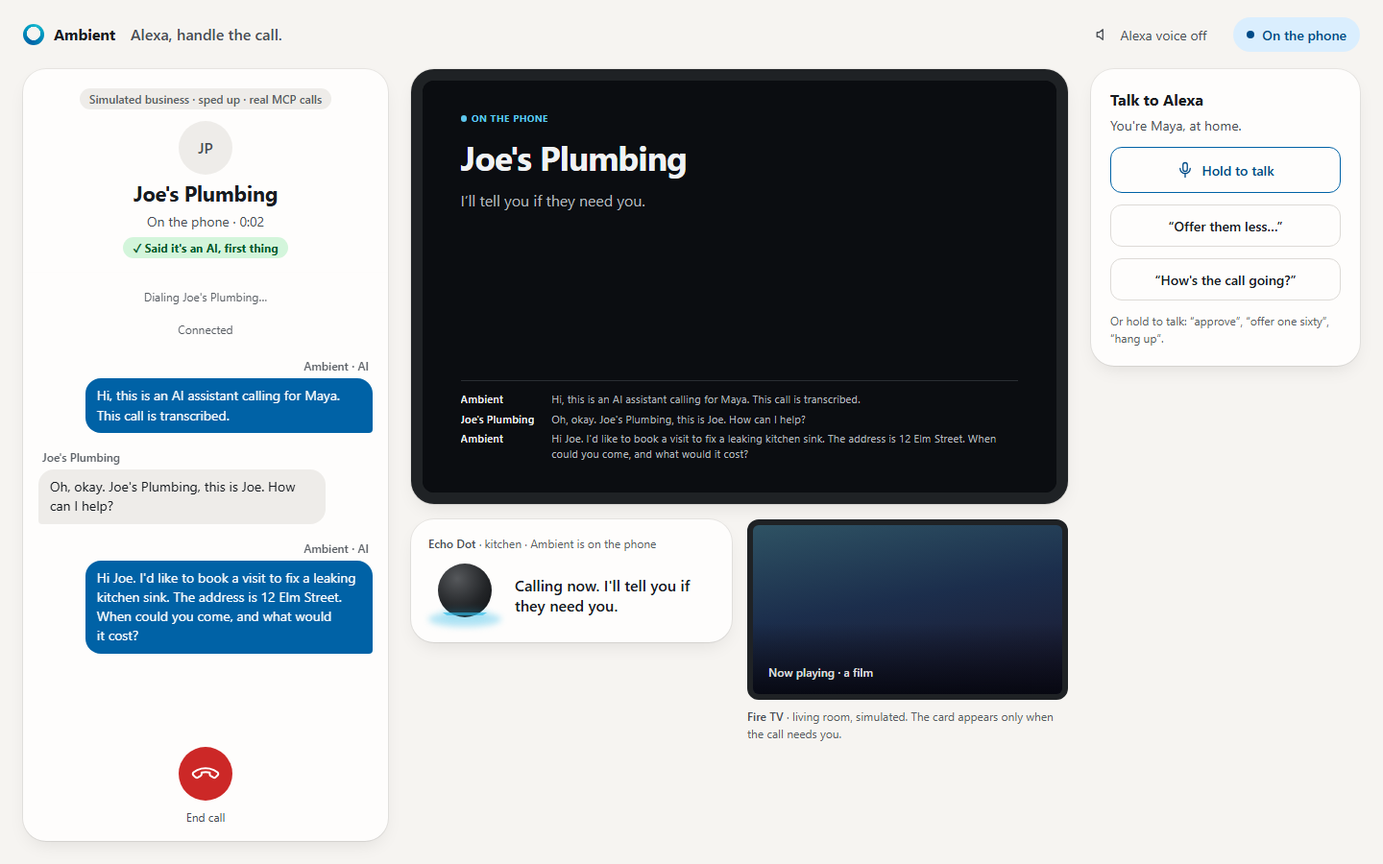
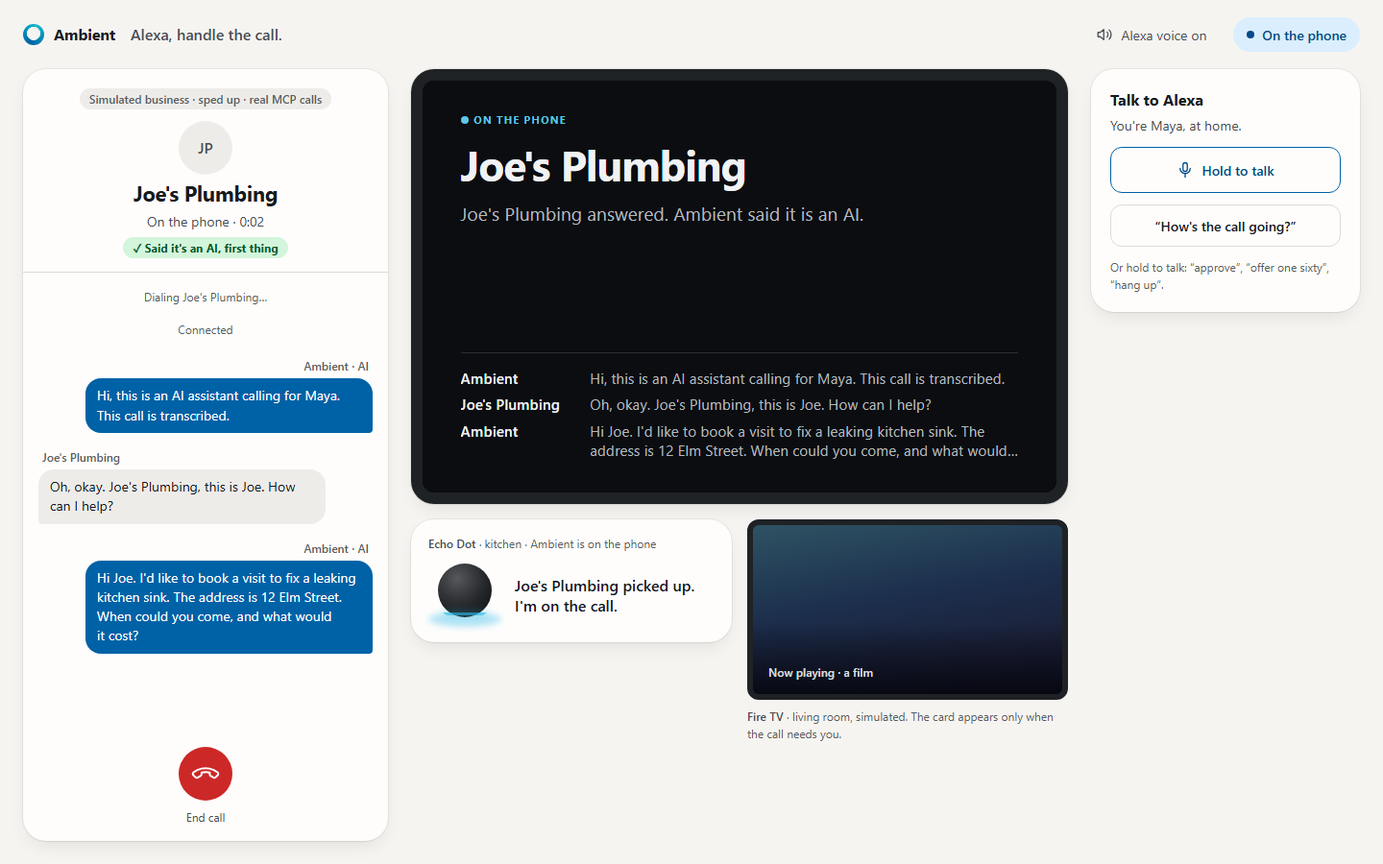
Make the needs-you card a complete decision
The third blind critique still found the decision split: the card could
approve or decline, but offering less lived in the side panel, and the
card never said what the limit was. Now:

- Approvals carry the owner's limit (limitUsd through the reducer,
  engine, store, and task card), so the card reads "Needs you · $30 over
  your $150 limit" above "$180 · Joe's Plumbing".
- Approve, Offer $160, Offer $170, and Decline sit together on the
  device card; the offers steer the live call through tools/call.
  "Decline ends the call. Nothing is booked." states the consequence.
- One sentence for a hang-up everywhere: "You ended the call before
  Joe's Plumbing confirmed. Nothing was booked."
- While connected the card says the business answered and Ambient said
  it is an AI; the Echo Dot says it picked up. A chime plays on confirm.
- The business's page names the owner before it is answered (/info).
- Larger device type; the TV chip truncates instead of wrapping.

diff --git a/src/task-view.ts b/src/task-view.ts
@@ -22,26 +22,27 @@ export const TASK_HTML = `<!doctype html>
  --go:oklch(0.52 0.13 152);--btn:oklch(0.26 0.01 255)}
 *{box-sizing:border-box;margin:0}
 html,body{height:100%}
-body{background:var(--bg);color:var(--fg);font:400 clamp(12px,2.4vw,28px)/1.35 -apple-system,"SF Pro Text",system-ui,sans-serif;
+body{background:var(--bg);color:var(--fg);font:400 clamp(12px,2.9vw,32px)/1.35 -apple-system,"SF Pro Text",system-ui,sans-serif;
  -webkit-font-smoothing:antialiased;padding:5vw 6vw;display:flex;flex-direction:column;gap:2.4vw;overflow:hidden}
 button{font:inherit;color:inherit;cursor:pointer;border:0}
 button:focus-visible{outline:2px solid var(--call);outline-offset:3px}
 .chip{display:inline-flex;align-items:center;gap:.5em;font-size:.6em;font-weight:650;letter-spacing:.08em;text-transform:uppercase;color:var(--call)}
 .chip::before{content:"";width:.7em;height:.7em;border-radius:50%;background:currentColor}
 .chip.needs{color:var(--needs)}.chip.done{color:var(--done)}.chip.warn{color:var(--warn)}.chip.idle{color:var(--dim)}
-.stake{font-size:2.2em;font-weight:650;letter-spacing:-.02em;line-height:1.05;font-variant-numeric:tabular-nums;text-wrap:balance}
+.stake{font-size:2.3em;font-weight:650;letter-spacing:-.02em;line-height:1.05;font-variant-numeric:tabular-nums;text-wrap:balance}
 .sub{font-size:1em;color:var(--dim);text-wrap:pretty;max-width:32em}
 .actions{display:flex;gap:.6em;flex-wrap:wrap;margin-top:.4em}
 .actions:empty{display:none}
-.actions button{min-height:2.4em;padding:0 1.2em;border-radius:.6em;background:var(--btn);font-weight:600;font-size:.9em}
-.actions button.primary{background:var(--go);color:#fff;font-size:1em;padding:0 1.6em}
+.actions button{min-height:2.4em;padding:0 .95em;border-radius:.6em;background:var(--btn);font-weight:600;font-size:.9em}
+.actions button.primary{background:var(--go);color:#fff;font-size:1em;padding:0 1.5em}
+.actions button.offer{background:transparent;box-shadow:inset 0 0 0 1px var(--faint)}
 .actions button.call{background:var(--fg);color:var(--bg)}
 .actions button:active{transform:scale(.97)}
 .hint{font-size:.78em;color:var(--dim)}
 .hint:empty{display:none}
 .lines[hidden]{display:none}
-.lines{margin-top:auto;display:flex;flex-direction:column;gap:.45em;font-size:.72em;border-top:1px solid var(--faint);padding-top:1em}
-.line{display:grid;grid-template-columns:7.5em 1fr;gap:.8em;color:var(--dim)}
+.lines{margin-top:auto;display:flex;flex-direction:column;gap:.45em;font-size:.8em;border-top:1px solid var(--faint);padding-top:1em}
+.line{display:grid;grid-template-columns:8em 1fr;gap:.8em;color:var(--dim)}
 .line b{font-weight:600;color:var(--fg);white-space:nowrap;overflow:hidden;text-overflow:ellipsis}
 .line span{display:-webkit-box;-webkit-line-clamp:2;-webkit-box-orient:vertical;overflow:hidden}
 .lines.how{margin-top:.6em;border-top:0;padding-top:0;font-size:.9em;gap:.6em}
@@ -49,7 +50,8 @@ button:focus-visible{outline:2px solid var(--call);outline-offset:3px}
 .lines.how b{color:var(--call)}
 body[data-device="tv"]{font-size:clamp(12px,5.2vw,40px);padding:0 6vw;gap:1.4vw;justify-content:center}
 body[data-device="tv"] .lines,body[data-device="tv"] .sub,body[data-device="tv"] .hint,body[data-device="tv"] .actions{display:none}
-body[data-device="tv"] .stake{font-size:1.15em;white-space:nowrap;overflow:hidden;text-overflow:ellipsis}
+body[data-device="tv"] .chip{max-width:100%;white-space:nowrap;overflow:hidden;text-overflow:ellipsis;display:block}
+body[data-device="tv"] .stake{font-size:1.15em;line-height:1.3;padding-bottom:.1em;white-space:nowrap;overflow:hidden;text-overflow:ellipsis}
 </style></head><body>
 <span class="chip idle" id="chip">Ready</span>
 <div class="stake" id="stake"></div>
@@ -73,6 +75,8 @@ const HOW=["Ambient phones the business and says it is an AI, first thing.","Ove
 function business(steps){for(const s of steps){const m=/^(?:Calling|Connected to) (.+)$/.exec(s);if(m)return m[1];}return "";}
 function speakers(steps){return steps.map(s=>/^([^:]{1,40}): (.+)$/.exec(s)).filter(Boolean).map(m=>({who:m[1],text:m[2]}));}
 function act(name,args){return rpc("tools/call",{name,arguments:args}).catch(()=>undefined);}
+function offers(ap){const limit=ap.limitUsd,amount=ap.amountUsd;if(limit===undefined||amount===undefined)return [];
+ const out=[];for(let v=limit+10;v<amount&&out.length<2;v+=10)out.push(v);return out;}
 function buttons(list){const box=$("actions");box.innerHTML="";
  for(const b of list){const el=document.createElement("button");el.type="button";el.textContent=b.label;if(b.kind)el.className=b.kind;el.onclick=()=>{el.disabled=true;b.run();};box.appendChild(el);}}
 function render(d){
@@ -83,25 +87,29 @@ function render(d){
  box.className="lines";hint.textContent="";buttons([]);
  if(ap){chip.className="chip needs";chip.textContent="Needs you";
   stake.textContent=(ap.amountUsd!==undefined?usd(ap.amountUsd)+" \\u00b7 ":"")+biz;
-  sub.textContent=ap.kind==="dial"?"Place this call?":"Over your limit. They are on hold.";
-  buttons([{label:ap.amountUsd!==undefined?"Approve "+usd(ap.amountUsd):"Approve",kind:"primary",run:()=>act("approve",{decision:"once"})},{label:"Decline",run:()=>act("approve",{decision:"deny"})}]);
-  hint.textContent="Or say \\u201cAlexa, tell Ambient offer one sixty.\\u201d";}
+  if(ap.amountUsd!==undefined&&ap.limitUsd!==undefined)chip.textContent="Needs you \\u00b7 "+usd(ap.amountUsd-ap.limitUsd)+" over your "+usd(ap.limitUsd)+" limit";
+  sub.textContent=ap.kind==="dial"?"Place this call?":biz+" is on hold.";
+  buttons([{label:"Approve",kind:"primary",run:()=>act("approve",{decision:"once"})},
+   ...offers(ap).map(v=>({label:"Offer "+usd(v),kind:"offer",run:()=>act("delegate",{task:"offer "+v})})),
+   {label:"Decline",run:()=>act("approve",{decision:"deny"})}]);
+  hint.textContent=ap.kind==="dial"?"":"Decline ends the call. Nothing is booked.";}
  else if(o){const ok=o.kind==="confirmed";chip.className="chip "+(ok?"done":"warn");
   chip.textContent=ok?"Confirmed by "+biz:o.kind==="unconfirmed"?"Not confirmed":o.kind==="declined"?"Declined":"No deal";
   stake.textContent=ok?((o.amountUsd!==undefined?usd(o.amountUsd)+" \\u00b7 ":"")+cap(o.when||biz)):biz;
   const theirs=said.filter(l=>l.who===biz).at(-1);
-  sub.textContent=ok?(theirs?"In their words: “"+theirs.text+"”":"Booked with "+biz+"."):t.status==="cancelled"?"You ended the call. Nothing was booked.":"Nothing was booked.";
+  sub.textContent=ok?(theirs?"In their words: “"+theirs.text+"”":"Booked with "+biz+"."):t.status==="cancelled"?"You ended the call before "+biz+" confirmed. Nothing was booked.":"Nothing was booked.";
   buttons([{label:"Call again",run:()=>act("delegate",{task:DEMO,newConversation:true})}]);}
  else if(live){chip.className="chip";chip.textContent=steps.some(s=>s.startsWith("Connected to"))?"On the phone":"Calling";
   stake.textContent=biz;
   const decided=owner&&/^\\S+ (approved|declined): /.exec(owner.text);
-  sub.textContent=decided?"You "+decided[1]+" it.":owner?"You told them: \\u201c"+cap(owner.text)+"\\u201d":"I\\u2019ll tell you if they need you.";}
+  const connected=steps.some(s=>s.startsWith("Connected to"));
+  sub.textContent=decided?"You "+decided[1]+" it.":owner?"You told them: \\u201c"+cap(owner.text)+"\\u201d":connected?biz+" answered. Ambient said it is an AI.":"Ringing\\u2026";}
  else{chip.className="chip idle";chip.textContent="Ready";stake.textContent="Alexa, handle the call.";
   sub.textContent="Say \\u201cAlexa, tell Ambient to call Joe\\u2019s Plumbing,\\u201d or tap below.";
   buttons([{label:"Call Joe\\u2019s Plumbing",kind:"call",run:()=>act("delegate",{task:DEMO,newConversation:true})}]);
   box.hidden=false;box.className="lines how";box.innerHTML=HOW.map((x,i)=>'<div class="line"><b>'+(i+1)+'</b><span>'+x+'</span></div>').join("");return;}
  const lines=said.slice(-3);
- box.hidden=lines.length===0||!!o;
+ box.hidden=lines.length===0||!!o||!!ap;
  box.innerHTML=lines.map(l=>'<div class="line"><b>'+esc(l.who)+'</b><span>'+esc(cap(l.text))+'</span></div>').join("");}
 render({});
 boot();

diff --git a/web/sim/index.html b/web/sim/index.html
@@ -90,7 +90,8 @@ body[data-phase="needs"] .call{filter:saturate(.3)}
 .proof{display:none;font-size:12px;font-weight:650;color:var(--go-text);background:var(--go-soft);padding:2px 10px;border-radius:999px}
 .proof.show{display:inline-block}
 .transcript{flex:1;overflow-y:auto;padding:12px 16px 24px;display:flex;flex-direction:column;gap:8px;border-top:1px solid var(--line);
-  mask-image:linear-gradient(180deg,transparent 0,#000 16px)}
+}
+.transcript.scrolled{mask-image:linear-gradient(180deg,transparent 0,#000 16px)}
 .bubble{max-width:86%;padding:8px 12px;border-radius:16px;font-size:14px;line-height:1.45;text-wrap:pretty}
 .bubble.business{align-self:flex-start;background:var(--sunk);border-bottom-left-radius:4px}
 .bubble.agent{align-self:flex-end;background:var(--call);color:var(--call-ink);border-bottom-right-radius:4px}
@@ -157,10 +158,6 @@ body[data-phase="needs"] .screen .title{opacity:0}
 @media (hover:hover){.ghost:hover{background:var(--sunk)}}
 .liveonly{display:none}
 body[data-phase="live"] .liveonly,body[data-phase="needs"] .liveonly{display:block}
-.offer{display:none;gap:8px}
-.offer.show{display:flex}
-.offer input{flex:1;min-width:0;min-height:44px;border-radius:var(--r-ctl);border:1px solid var(--line);background:var(--sunk);color:var(--ink);padding:0 12px;font:inherit;font-size:16px;font-variant-numeric:tabular-nums}
-.offer button{min-height:44px;padding:0 14px;border-radius:var(--r-ctl);border:0;background:var(--call);color:var(--call-ink);font-weight:600;cursor:pointer}
 .mic{display:flex;align-items:center;justify-content:center;gap:8px;min-height:48px;border-radius:var(--r-ctl);border:1.5px solid var(--call);background:transparent;color:var(--call-text);cursor:pointer;font-weight:600}
 .mic svg{width:18px;height:18px}
 .mic[aria-pressed="true"]{background:var(--call);color:var(--call-ink)}
@@ -238,12 +235,6 @@ body[data-phase="live"] .liveonly,body[data-phase="needs"] .liveonly{display:blo
       <svg viewBox="0 0 24 24" fill="none" stroke="currentColor" stroke-width="1.75" stroke-linecap="round" stroke-linejoin="round" aria-hidden="true"><rect x="9" y="2" width="6" height="12" rx="3"/><path d="M5 10a7 7 0 0 0 14 0M12 17v5"/></svg>
       <span id="micLabel">Hold to talk</span>
     </button>
-    <button class="ghost liveonly" id="offerBtn" type="button" aria-expanded="false" aria-controls="offer">“Offer them less…”</button>
-    <form class="offer" id="offer">
-      <label class="sr" for="amount">Offer amount in dollars</label>
-      <input id="amount" inputmode="numeric" autocomplete="off" value="160">
-      <button type="submit">Tell them</button>
-    </form>
     <button class="ghost liveonly" id="statusBtn" type="button">“How's the call going?”</button>
     <p class="hint liveonly">Or hold to talk: “approve”, “offer one sixty”, “hang up”.</p>
   </section>
@@ -321,7 +312,10 @@ function renderTranscript(steps, biz) {
   }
   const html = nodes.join("") || `<div class="empty"><strong>Nobody wants to make this call.</strong><span>Ambient phones Joe's Plumbing, books the sink repair under your $150 limit, and asks you before it agrees to anything more.</span></div>`;
   if (box.dataset.html !== html) { box.dataset.html = html; box.innerHTML = html; }
-  requestAnimationFrame(() => { box.scrollTop = box.scrollHeight; });
+  requestAnimationFrame(() => {
+    box.scrollTop = box.scrollHeight;
+    box.classList.toggle("scrolled", box.scrollTop > 0);
+  });
 }
 
 function render() {
@@ -343,18 +337,18 @@ function render() {
     $("outcomeLabel").textContent = ok ? `Confirmed by ${biz}` : t.status === "cancelled" ? "Not confirmed" : o.kind === "unconfirmed" ? "Not confirmed" : o.kind === "declined" ? "They declined" : "No deal";
     $("outcomeText").textContent = ok ? o.summary : t.status === "cancelled" ? `You ended the call before ${biz} confirmed. Nothing was booked.` : `${sentence(o.reason)}. Nothing was booked.`;
     const line = ok ? `Booked. ${sentence(o.when ?? "")}${o.amountUsd !== undefined ? `, ${usd(o.amountUsd)}` : ""}.` : "Nothing was booked.";
-    if (line !== state.lastOutcome) { state.lastOutcome = line; speak(line); }
+    if (line !== state.lastOutcome) { state.lastOutcome = line; if (ok) chime(); speak(line); }
   } else out.className = "outcome";
 
   const ring = !t ? "idle" : ap ? "needs" : o?.kind === "confirmed" ? "done" : live() ? "working" : "idle";
   $("speaker").dataset.ring = ring;
   $("ringstate").textContent = { idle: "idle", working: "Ambient is on the phone", needs: "the call needs you", done: "booked" }[ring];
 
+  if (connected && phase === "live" && !state.pickedUp) { state.pickedUp = true; speak(`${biz} picked up. I'm on the call.`); }
   if (ap) {
     const cue = `${biz} wants ${ap.amountUsd !== undefined ? usd(ap.amountUsd) : "your OK"}. Approve, or offer less?`;
     if (cue !== state.lastCue) { state.lastCue = cue; speak(cue); }
   }
-  if (!live()) toggleOffer(false);
 
   clearInterval(state.tick);
   const tickTimer = () => {
@@ -378,25 +372,28 @@ async function decide(decision) {
 }
 $("statusBtn").onclick = async () => speak((await tool("status")).speech);
 $("hangup").onclick = async () => speak((await tool("stop")).speech);
+function chime() {
+  if (!state.sound) return;
+  try {
+    const ctx = new AudioContext();
+    [659.25, 987.77].forEach((hz, i) => {
+      const osc = ctx.createOscillator(), gain = ctx.createGain();
+      osc.frequency.value = hz;
+      gain.gain.setValueAtTime(0.0001, ctx.currentTime + i * 0.16);
+      gain.gain.exponentialRampToValueAtTime(0.18, ctx.currentTime + i * 0.16 + 0.02);
+      gain.gain.exponentialRampToValueAtTime(0.0001, ctx.currentTime + i * 0.16 + 0.5);
+      osc.connect(gain).connect(ctx.destination);
+      osc.start(ctx.currentTime + i * 0.16);
+      osc.stop(ctx.currentTime + i * 0.16 + 0.55);
+    });
+  } catch {}
+}
 function startCall(task) {
-  state.card = null; state.lastCue = ""; state.lastOutcome = "";
+  state.card = null; state.lastCue = ""; state.lastOutcome = ""; state.pickedUp = false;
   $("transcript").dataset.html = "";
   speak("Calling now. I'll tell you if they need you.");
   tool("delegate", { task, newConversation: true });
 }
-function toggleOffer(open) {
-  $("offer").classList.toggle("show", open);
-  $("offerBtn").setAttribute("aria-expanded", String(open));
-  if (open) $("amount").select();
-}
-$("offerBtn").onclick = () => toggleOffer(!$("offer").classList.contains("show"));
-$("offer").onsubmit = async e => {
-  e.preventDefault();
-  const amount = $("amount").value.replace(/[^\d]/g, "");
-  if (!amount) return;
-  toggleOffer(false);
-  await steer(`offer ${amount}`);
-};
 async function steer(text) { speak((await tool("delegate", { task: text })).speech); }
 
 async function heard(text) {

diff --git a/src/store.ts b/src/store.ts
@@ -98,6 +98,7 @@ function approval(row: Row): Approval {
     command: text(row.command),
     ...(optionalText(row.description) ? { description: text(row.description) } : {}),
     ...(typeof row.amount_usd === "number" ? { amountUsd: row.amount_usd } : {}),
+    ...(typeof row.limit_usd === "number" ? { limitUsd: row.limit_usd } : {}),
     ...(optionalText(row.kind) ? { kind: text(row.kind) as ApprovalKind } : {}),
     choices: Array.isArray(choices) ? choices.filter((value): value is string => typeof value === "string") : [],
     createdAt: text(row.created_at),
@@ -177,6 +178,7 @@ export class AmbientStore {
         description TEXT,
         choices_json TEXT NOT NULL,
         amount_usd REAL,
+        limit_usd REAL,
         kind TEXT,
         created_at TEXT NOT NULL,
         resolved_at TEXT,
@@ -262,6 +264,7 @@ export class AmbientStore {
           description TEXT,
           choices_json TEXT NOT NULL,
           amount_usd REAL,
+          limit_usd REAL,
           kind TEXT,
           created_at TEXT NOT NULL,
           resolved_at TEXT,
@@ -284,6 +287,7 @@ export class AmbientStore {
     );
     if (!columns.has("amount_usd")) this.db.exec("ALTER TABLE approvals ADD COLUMN amount_usd REAL");
     if (!columns.has("kind")) this.db.exec("ALTER TABLE approvals ADD COLUMN kind TEXT");
+    if (!columns.has("limit_usd")) this.db.exec("ALTER TABLE approvals ADD COLUMN limit_usd REAL");
   }
 
   private purge(retentionDays: number): void {
@@ -565,11 +569,11 @@ export class AmbientStore {
     this.db.prepare(`
       INSERT INTO approvals
         (id, run_id, runtime_id, durable_session_id, live_session_id, request_id, command,
-         description, choices_json, amount_usd, kind, created_at, resolved_at)
-      VALUES (?, ?, ?, ?, ?, ?, ?, ?, ?, ?, ?, ?, ?)
+         description, choices_json, amount_usd, limit_usd, kind, created_at, resolved_at)
+      VALUES (?, ?, ?, ?, ?, ?, ?, ?, ?, ?, ?, ?, ?, ?)
       ON CONFLICT(runtime_id, request_id) DO UPDATE SET command = excluded.command,
         description = excluded.description, choices_json = excluded.choices_json,
-        amount_usd = excluded.amount_usd, kind = excluded.kind, resolved_at = NULL
+        amount_usd = excluded.amount_usd, limit_usd = excluded.limit_usd, kind = excluded.kind, resolved_at = NULL
     `).run(
       value.id,
       value.runId,
@@ -581,6 +585,7 @@ export class AmbientStore {
       value.description ?? null,
       JSON.stringify(value.choices),
       value.amountUsd ?? null,
+      value.limitUsd ?? null,
       value.kind ?? null,
       value.createdAt,
       value.resolvedAt ?? null

diff --git a/web/call/index.html b/web/call/index.html
@@ -28,7 +28,7 @@ h1{font-size:34px;font-weight:600;letter-spacing:-.02em;line-height:1.1}
 .ai{display:inline-flex;align-items:center;gap:6px;font-size:14px;font-weight:600;color:var(--ai);border:1px solid oklch(0.80 0.11 225 / .4);border-radius:999px;padding:4px 12px}
 .why{max-width:320px;color:var(--ink-2);font-size:15px}
 .avatar{margin:40px 0 0;width:112px;height:112px;border-radius:50%;display:grid;place-items:center;background:oklch(0.26 0.015 250);color:var(--ink-2);font-size:40px;font-weight:600;position:relative}
-.avatar::after{content:"";position:absolute;inset:-10px;border-radius:50%;border:2px solid oklch(0.80 0.11 225 / .35);opacity:0}
+.avatar::after{content:"";position:absolute;inset:-10px;border-radius:50%;border:2px solid oklch(0.80 0.11 225 / .8);opacity:0}
 body[data-state="ringing"] .avatar::after,body[data-state="speaking"] .avatar::after{animation:ring 1.8s cubic-bezier(0.2,0,0,1) infinite}
 @keyframes ring{0%{opacity:.9;transform:scale(.92)}100%{opacity:0;transform:scale(1.18)}}
 .captions{margin-top:28px;width:100%;max-width:380px;min-height:120px;display:flex;flex-direction:column;gap:10px;justify-content:flex-end}
@@ -148,6 +148,10 @@ function end(reason) {
   $("ringingActions").classList.add("hidden");
   $("note").textContent = "You can close this page.";
 }
+
+fetch(base + "/info").then(r => r.ok ? r.json() : null).then(info => {
+  if (info?.ownerName) $("why").textContent = `Calling for ${info.ownerName}. This call is transcribed.`;
+}).catch(() => {});
 
 const events = new EventSource(base + "/events");
 events.onmessage = e => {

diff --git a/src/voice.ts b/src/voice.ts
@@ -77,7 +77,7 @@ export function speak(view: RunView, ctx: SpeakContext): string {
       const choices = view.approval?.kind === "dial" ? "Say yes to place the call, or no." : "Say approve, deny, or offer a different amount.";
       return `${approvalAsk(view, ctx)} ${choices}`;
     }
-    if (view.status === "cancelled") return `I hung up on ${business}. Nothing was booked.`;
+    if (view.status === "cancelled") return `You ended the call before ${business} confirmed. Nothing was booked.`;
     if (view.status === "running" || view.status === "accepted" || view.status === "queued") {
       const heard = lastLineFrom(view, business);
       if (heard) return `${label} is on the phone with ${business}. They just said: ${clampSentences(heard)}`;
@@ -136,6 +136,7 @@ function approvalSummary(approval: Approval, label: string): Record<string, unkn
     command: approval.command,
     ...(approval.description ? { description: approval.description } : {}),
     ...(approval.amountUsd !== undefined ? { amountUsd: approval.amountUsd } : {}),
+    ...(approval.limitUsd !== undefined ? { limitUsd: approval.limitUsd } : {}),
     ...(approval.kind ? { kind: approval.kind } : {}),
     choices: approval.choices,
     agent: label,

diff --git a/src/calls/session.ts b/src/calls/session.ts
@@ -193,6 +193,7 @@ function askOwner(state: CallState, question: string, amountUsd: number | undefi
   const requestId = `${state.callId}:ask-${asks}`;
   const line = `One moment, let me check with ${state.brief.ownerName}.`;
   const amount = amountUsd !== undefined ? { amountUsd } : {};
+  const limit = state.brief.maxUsd !== undefined ? { limitUsd: state.brief.maxUsd } : {};
   const waiting = withTurn(flushDraft(state, now), "agent", line, now);
   return {
     state: { ...waiting, asks, phase: { kind: "waiting_for_owner", requestId, question, ...amount, since: now, lastHoldLine: now } },
@@ -202,7 +203,7 @@ function askOwner(state: CallState, question: string, amountUsd: number | undefi
         kind: "emit",
         event: {
           type: "approval.request",
-          payload: { requestId, command: question, description: question, choices: ["once", "deny"], kind: amountUsd !== undefined ? "spend" : "other", ...amount }
+          payload: { requestId, command: question, description: question, choices: ["once", "deny"], kind: amountUsd !== undefined ? "spend" : "other", ...amount, ...limit }
         }
       }
     ]

diff --git a/src/call-routes.ts b/src/call-routes.ts
@@ -3,7 +3,7 @@ import type { IncomingMessage, ServerResponse } from "node:http";
 import { join } from "node:path";
 import type { CallRooms, PageReport } from "./calls/rooms.js";
 
-const ROUTE = /^\/call\/([0-9a-f-]{36})(\/session|\/events|\/event|\/v1\/chat\/completions)?$/;
+const ROUTE = /^\/call\/([0-9a-f-]{36})(\/session|\/info|\/events|\/event|\/v1\/chat\/completions)?$/;
 
 async function readJson(request: IncomingMessage): Promise<unknown> {
   const chunks: Buffer[] = [];
@@ -46,6 +46,10 @@ export async function handleCallRoute(rooms: CallRooms, assetsDir: string, reque
     return true;
   }
   try {
+    if (action === "/info" && request.method === "GET") {
+      json(response, 200, room.info());
+      return true;
+    }
     if (action === "/session" && request.method === "POST") {
       json(response, 200, await room.session());
       return true;

diff --git a/test/voice.test.ts b/test/voice.test.ts
@@ -126,8 +126,8 @@ describe("speak", () => {
       expect(speak(call({ status: "running", steps }), { label: "Ambient" })).toBe("Ambient is on the phone with Joe's Plumbing. They just said: We can come Tuesday at ten.");
     });
 
-    it("says nothing was booked when you hang up", () => {
-      expect(speak(call({ status: "cancelled" }), { label: "Ambient" })).toBe("I hung up on Joe's Plumbing. Nothing was booked.");
+    it("says the owner ended the call and nothing was booked", () => {
+      expect(speak(call({ status: "cancelled" }), { label: "Ambient" })).toBe("You ended the call before Joe's Plumbing confirmed. Nothing was booked.");
     });
 
     it("confirms a steer by naming who will hear it", () => {

diff --git a/test/call-session.test.ts b/test/call-session.test.ts
@@ -168,7 +168,7 @@ describe("rule 3: a price above the limit needs the owner", () => {
     const { state, effects } = quoted();
     expect(state.phase).toMatchObject({ kind: "waiting_for_owner", amountUsd: 180 });
     expect(kinds(effects)).not.toContain("hang_up");
-    expect(emitted(effects, "approval.request")[0]?.payload).toMatchObject({ requestId: requestOf(state), amountUsd: 180, kind: "spend", choices: ["once", "deny"] });
+    expect(emitted(effects, "approval.request")[0]?.payload).toMatchObject({ requestId: requestOf(state), amountUsd: 180, limitUsd: 150, kind: "spend", choices: ["once", "deny"] });
     expect(spoken(effects)).toContain("One moment, let me check with Maya.");
   });
 

diff --git a/src/conversations.ts b/src/conversations.ts
@@ -354,6 +354,7 @@ export class ConversationEngine {
         command: value(event.payload.command) ?? `${this.label()} requested approval`,
         ...(value(event.payload.description) ? { description: value(event.payload.description)! } : {}),
         ...(typeof event.payload.amountUsd === "number" ? { amountUsd: event.payload.amountUsd } : {}),
+        ...(typeof event.payload.limitUsd === "number" ? { limitUsd: event.payload.limitUsd } : {}),
         ...(event.payload.kind ? { kind: event.payload.kind } : {}),
         choices: Array.isArray(event.payload.choices)
           ? event.payload.choices.filter((choice): choice is string => typeof choice === "string")

diff --git a/test/call-routes.test.ts b/test/call-routes.test.ts
@@ -45,6 +45,11 @@ describe("call routes", () => {
     expect(await gone.text()).toContain("This call has ended");
   });
 
+  it("tells the page who the call is for before anyone answers", async () => {
+    const { base } = await start();
+    expect(await (await fetch(`${base}/info`)).json()).toEqual({ ownerName: "Maya" });
+  });
+
   it("hands the page a session and accepts its events", async () => {
     const { base, inputs } = await start();
     expect(await (await fetch(`${base}/session`, { method: "POST" })).json()).toEqual({ token: "tok", agentId: "agent-9", ownerName: "Maya" });

diff --git a/test/conversations.test.ts b/test/conversations.test.ts
@@ -270,13 +270,14 @@ describe("ConversationEngine", () => {
         description: "The plumber wants more than the limit",
         choices: ["once", "deny"],
         amountUsd: 180,
+        limitUsd: 150,
         kind: "spend"
       }
     });
     await new Promise(resolve => setImmediate(resolve));
     expect(engine.getWork(run.id)).toMatchObject({
       status: "waiting_approval",
-      approval: { requestId: "req-9", amountUsd: 180, kind: "spend" }
+      approval: { requestId: "req-9", amountUsd: 180, limitUsd: 150, kind: "spend" }
     });
     store.close();
   });
